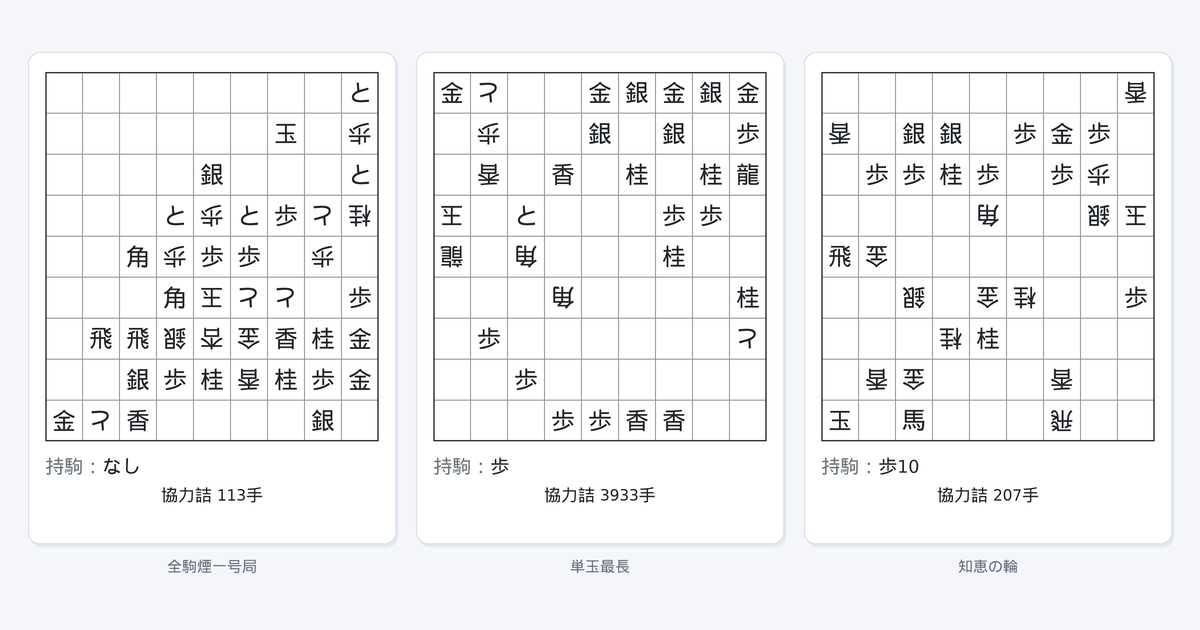
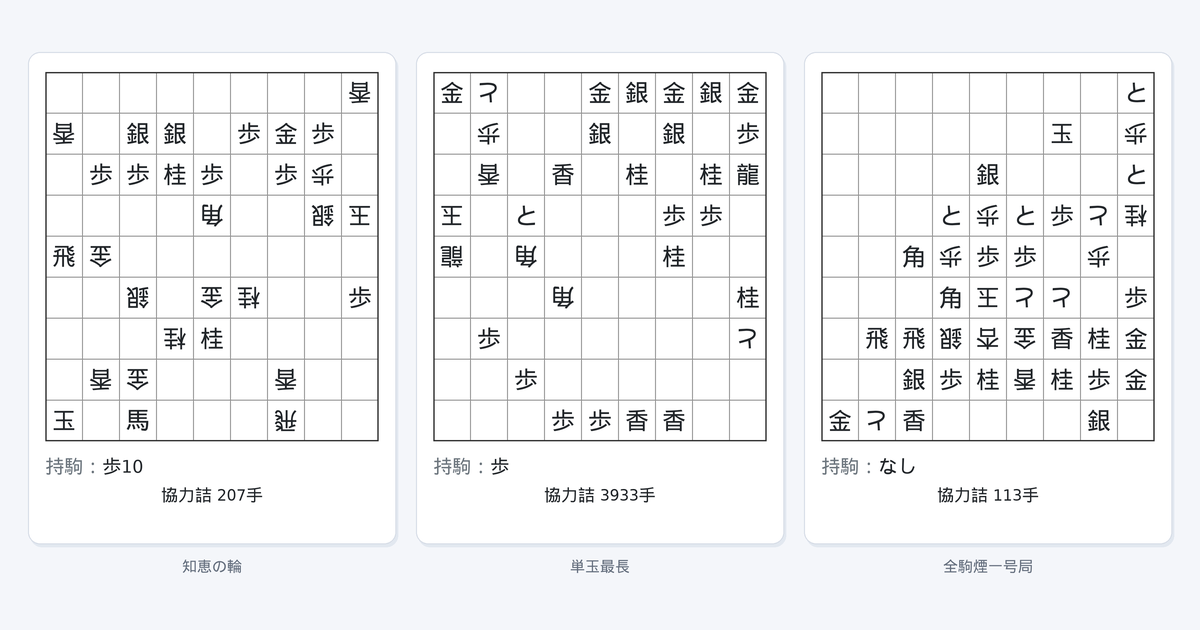
OGP画像の左右の作品（チェインと狼煙）を入れ替え

diff --git a/app/public/ogiekako.html b/app/public/ogiekako.html
@@ -16,7 +16,6 @@
     <title>ogiekako 協力詰作品集</title>
 
     <meta property="og:type" content="website" />
-    <meta property="og:url" content="https://ogiekako.github.io/fmrs/ogiekako" />
     <meta property="og:site_name" content="ogiekako 協力詰作品集" />
     <meta property="og:title" content="ogiekako 協力詰作品集" />
     <meta
@@ -25,7 +24,7 @@
     />
     <meta
       property="og:image"
-      content="https://ogiekako.github.io/fmrs/ogiekako-ogp.png?v=4"
+      content="https://ogiekako.github.io/fmrs/ogiekako-ogp.png?v=5"
     />
     <meta property="og:image:width" content="1200" />
     <meta property="og:image:height" content="630" />
@@ -38,7 +37,7 @@
     />
     <meta
       name="twitter:image"
-      content="https://ogiekako.github.io/fmrs/ogiekako-ogp.png?v=4"
+      content="https://ogiekako.github.io/fmrs/ogiekako-ogp.png?v=5"
     />
   </head>
 
